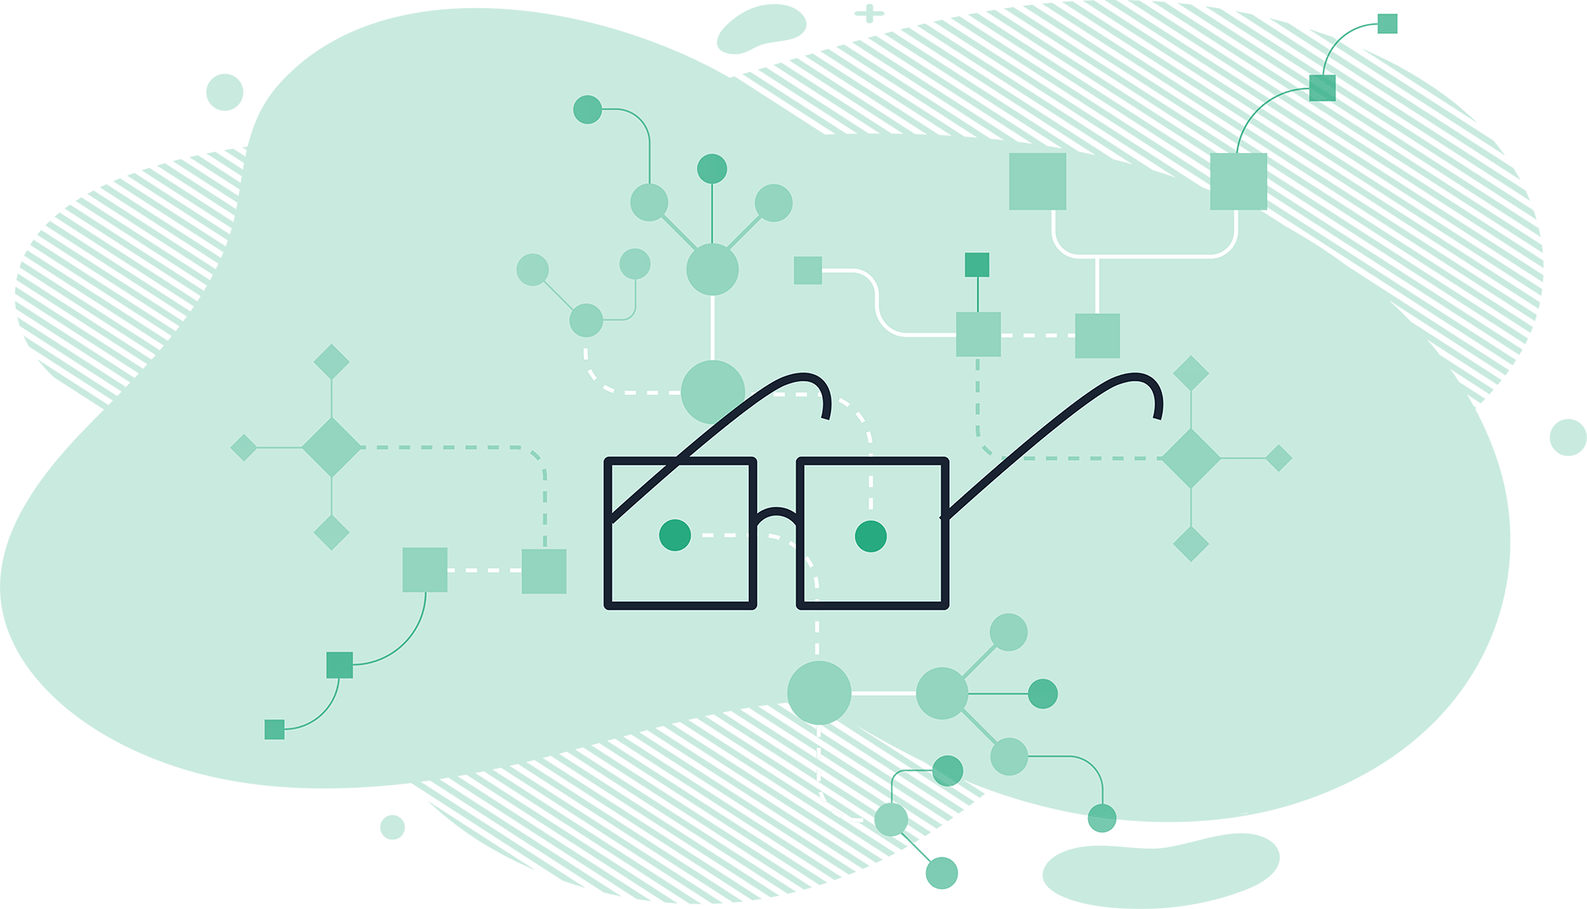
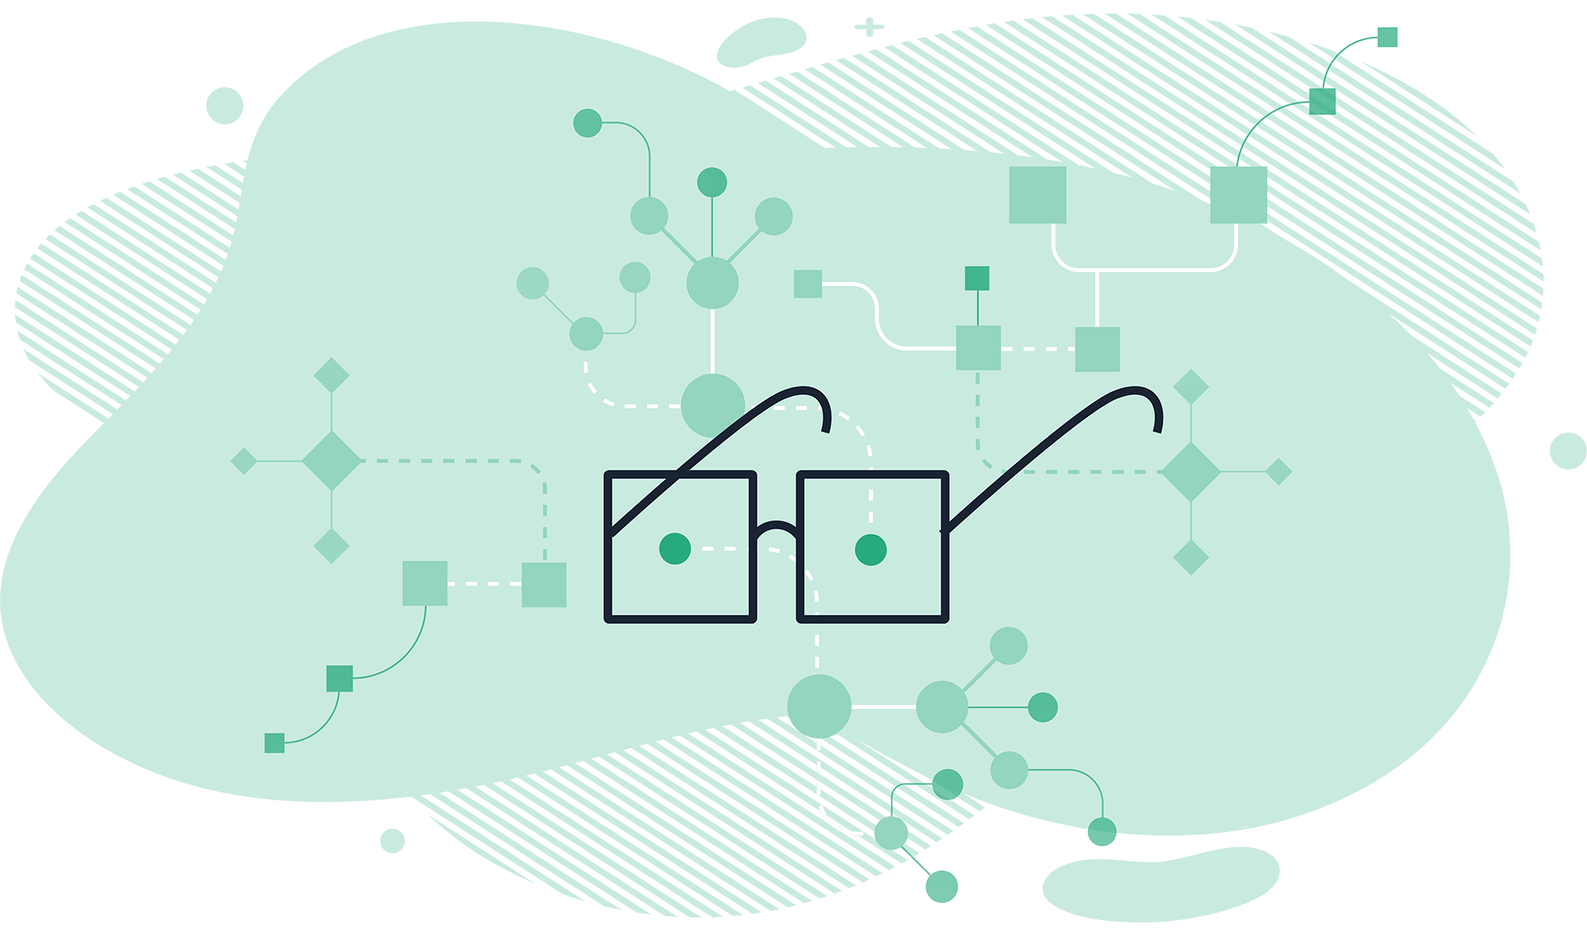
Normalized "blob image" ratios as best I could. Removed rampant bolding on /learn and added a section on Strategies. Updated the review page UI.

diff --git a/resources/views/learn.blade.php b/resources/views/learn.blade.php
@@ -58,6 +58,11 @@
         cursor: pointer;
     }
 
+    blockquote {
+        border-left: 4px solid var(--main);
+        padding-left: 15px;
+    }
+
 </style>
 @endsection
 
@@ -70,12 +75,15 @@
             <hr>
             <img style="width: 70%; display: block; margin: auto;" src="{{asset('/image/Brain.png')}}" />
 
-            <p class="mt-3"><b>Learning well</b> earns us the right to attend better classes, to get into better colleges, or even land better jobs.</p>
-            <p>Yet, the ability to learn effectively is often taken for granted and the <b>best techniques for studying</b>, that save us time and help us remember, are <b>seldom discussed</b>.</p>
-            <p>This guide will introduce you to a few of the most powerful and practical ways to <b>improve your studying</b> so that you can understand, remember, and achieve more.</p>
+            <p class="mt-3">Learning well earns us the right to attend better classes, to get into better colleges, or even land better jobs.</p>
+            <p>Yet, the ability to learn effectively is often taken for granted and the best techniques for studying, that save us time and help us remember, are seldom discussed.</p>
+            <p>This guide will introduce you to a few of the most powerful and practical ways to improve your studying so that you can understand, remember, and achieve more.</p>
             <div class="p-3 raised-box">
                 <h4><b>What will you learn?</b></h4>
                 <ul>
+                    <li>
+                        <b>Strategies</b><br><em>The forces behind the rampant use of ineffective learning methods.</em>
+                    </li>
                     <li>
                         <b>Self-Explanation</b><br><em>Talking to yourself might make you feel crazy, but it will definitely make you smarter.</em>
                     </li>
@@ -97,68 +105,104 @@
                 </ul>
             </div>
             <hr class="my-5">
-            <h3>Self-Explanation</h3>
-            <p>Self-explanation occurs when we <b>explain a text to ourselves as we read it</b> or recite the steps we are taking while solving a problem.</p>
-            <p>For example, you would be engaging in self-explanation if, at the end of each section of this guide, you stopped to ask yourself, "What did I just read?" and <b>summarized the content</b> in your own words.</p>
-            <p>This type of self-explanation has been <b>shown to lead to better solutions</b> while problem-solving as well as an <b>increased understanding of a text</b> when reading.</p>
-            <p>Self-explanations are even <b>more effective</b> when they go beyond the information presented in a text by <b>further elaborating or making inferences</b> about the material. </p>
-            <p>You might engage in this higher form of self-explanation while reading this guide by asking and inferring answers to questions like "How can I make use of this technique?" or "Why does this technique work so well?".<sup>[1]</sup></p>
+            <h2><b>Strategies</b></h2>
+            <p>
+                Most students are uninformed or misinformed about effective learning strategies. Schools rarely teach strategies, and students will not typically develop good strategies well on their own. 
+                As a result, many students develop false beliefs about their own study habits. 
+            </p>
+            <p>
+                Sometimes the use of ineffective strategies stems from false beliefs about the nature of knowledge. 
+                For instance, if you believe that knowledge is simply a collection of discrete facts, you don't have any reason to use a study strategy that organizes or relates the information you're learning.
+                Similarly, if you believe that knowledge will come quickly and easily as a result of merely consuming information, you won't adopt a strategy where you must practice recalling that information.
+            </p>
+            <p>
+                The use of ineffective strategies can also sometimes be attributed to false beliefs about what we know. 
+                Most students are not very mindful of their level of comprehension as they sit in class or read a book. 
+                Since they aren't monitoring their comprehension, they are especially apt to develop "illusions of knowing."
+            </p>
+            <p>Illusions of knowing are especially harmful since we're likely to stop studying at exactly the moment when we think we know the material. 
+                With an illusion of knowing, we'll stop studying prematurely &ndash; and we'll be more apt to be frustrated with the results of a test! 
+                Thus, it is important that the learning strategies we use help us monitor our comprehension well.<sup>[1]</sup></p>
+            <div class="raised-box p-3">
+                <h4 class="mb-3"><b>Learning Strategies...Is it really worth it?</b></h4>
+                <blockquote>
+                        <p><em>Students who believe that certain strategies involve too much time and effort are unlikely to use
+                        them, no matter how effective the strategies might be...In many cases, students seem to
+                        be unaware of how much a few simple strategies can help them learn and remember classroom
+                        material...</em><sup>[1]</sup></p>
+                        <small class="blockquote-footer">Jeanne Ormrod, Author of <em>Human Learning</em></small>
+                </blockquote>
+                <p>Effective learning strategies can sometimes feel counterintuitive. They may take some time and effort to get used to and to get really good at using them. 
+                    Yet, you're going to be learning your whole life &ndash; it's almost certainly going to be worth it to know how they work!</p>
+                <p>Some techniques are so simple that using them is almost as easy as <em>remembering</em> and <em>deciding</em> to use them. We discuss a few of these below.</p>
+            </div>
+
             <hr class="my-5">
-            <h3>Testing</h3>
+            <h3><b>Self-Explanation</b></h3>
+            <p>Self-explanation occurs when we explain a text to ourselves as we read it or recite the steps we are taking while solving a problem.</p>
+            <p>For example, you would be engaging in self-explanation if, at the end of each section of this guide, you stopped to ask yourself, "What did I just read?" and summarized the content in your own words.</p>
+            <p>This type of self-explanation has been shown to lead to better solutions while problem-solving as well as an increased understanding of a text when reading.</p>
+            <p>Self-explanations are even more effective when they go beyond the information presented in a text by further elaborating or making inferences about the material. </p>
+            <p>You might engage in this higher form of self-explanation while reading this guide by asking and inferring answers to questions like "How can I make use of this technique?" or "Why does this technique work so well?".<sup>[2]</sup></p>
+            <hr class="my-5">
+            <h3><b>Testing</b></h3>
             <p>People often think of tests and quizzes as mere assessments of learning and that the only good (or bad) that comes from taking them is knowledge of a grade.</p>
             <p>This isn't true!</p>
-            <p>When we take a test, we are forced to <b>retrieve information from memory</b> without the ability to use an external source of information like our notes. Thus, our <b>brains have to work a bit harder</b> to find the answers. This <b>extra effort strengthens the memory</b> so that the brain doesn't have to work as hard in the future.</p>
-            <p>We can make use of this testing effect in our study habits by taking practice tests, completing end-of-chapter questions, or by simply using flashcards.<sup>[2]</sup></p>
+            <p>When we take a test, we are forced to retrieve information from memory without the ability to use an external source of information like our notes. Thus, our brains have to work a bit harder to find the answers. This extra effort strengthens the memory so that the brain doesn't have to work as hard in the future.</p>
+            <p>We can make use of this testing effect in our study habits by taking practice tests, completing end-of-chapter questions, or by simply using flashcards.<sup>[3]</sup></p>
             <hr class="my-5">
-            <h3>Spacing</h3>
-            <p>Everyone knows that <b>learning things well takes time</b>. We usually need to <b>review information more than once</b> before we can recall it perfectly without using our notes.</p>
+            <h3><b>Spacing</b></h3>
+            <p>Everyone knows that learning things well takes time. We usually need to review information more than once before we can recall it perfectly without using our notes.</p>
             <p>One obvious way to improve memory, though not always feasible, would be to spend more time in review.</p>
-            <p>What is less obvious is that <b>the way we schedule</b> this review time is crucially important.</p>
+            <p>What is less obvious is that the way we schedule this review time is crucially important.</p>
             <p>Many students often choose to study one concept at a time by reciting or rereading the material in back-to-back repetitions until it feels familiar. This is an ineffective strategy for long-term memory.</p>
             <p>If we reread something immediately, our brains don't have to do any work with the information. It's all already there!</p>
-            <p>Instead, it is better to <b>spread out our exposure to the material</b> across more time. Then, when we return to the material, <b>our brains draw up the memories of the last time we saw it</b>, which strengthens them.</p>
-            <p>This <b>spacing effect</b> is amplified when combined with the <b>testing effect</b> discussed earlier. Instead of simply returning to reread the material after some time has passed, try quizzing yourself on it first.<sup>[3]</sup></p>
+            <p>Instead, it is better to spread out our exposure to the material across more time. Then, when we return to the material, our brains draw up the memories of the last time we saw it, which strengthens them.</p>
+            <p>This spacing effect is amplified when combined with the testing effect discussed earlier. Instead of simply returning to reread the material after some time has passed, try quizzing yourself on it first.<sup>[4]</sup></p>
             <div class="p-3 raised-box">
                 <h4><b>Remember This When Cramming</b></h4>
                 <p>It's an hour before the test. You don't feel like you've studied enough to fully grasp everything on the test, so you're frantically shuffling through your flashcards.</p>
                 <p>In the interest of time, you decide to drop a few of them that you think you know well. You also drop a few that you think are too difficult to learn in such a short timeframe. This way, you believe you can get the most out of your cramming.</p>
-                <p><b>Bad idea.</b></p>
-                <p>One study found that <b>we often make poor decisions</b> about which cards to drop. Keeping the cards we know in the rotation might even be beneficial as it <b>increases the spacing</b> between the cards we do not know. <sup>[4]</sup></p>
+                <p>Bad idea.</p>
+                <p>One study found that we often make poor decisions about which cards to drop. Keeping the cards we know in the rotation might even be beneficial as it increases the spacing between the cards we do not know. <sup>[5]</sup></p>
                 <p>Moral of the story: make a plan to space out your study time. </p>
             </div>
             <hr class="my-5">
-            <h3>Sleep</h3>
+            <h3><b>Sleep</b></h3>
             <p>Sleep is often viewed as a time where nothing happens. But, during sleep, our brains are hard at work.</p>
-            <p>While we sleep, our brains replay the events of the day and <b>consolidate information</b> into long-term memory. Sleeping has been <b>shown to increase memory recall</b>.<sup>[5]</sup></p>
+            <p>While we sleep, our brains replay the events of the day and consolidate information into long-term memory. Sleeping has been shown to increase memory recall.<sup>[6]</sup></p>
             <p>When we don't get enough sleep, we hinder this consolidation process.</p>
-            <p>Furthermore, <b>our brains are constantly creating and integrating new neurons</b>. A prolonged lack of either sleep or new learning experiences greatly reduces how many of these new neurons can survive.<sup>[6]</sup></p>
-            <p><b>Don't starve your baby neurons</b>.</p>
-            <p>If you want a healthy, thriving brain, <b>seek out new learning experiences every day</b> for your brain to replay while you sleep and make sure to <b>go to bed on time</b>.</p>
+            <p>Furthermore, our brains are constantly creating and integrating new neurons. A prolonged lack of either sleep or new learning experiences greatly reduces how many of these new neurons can survive.<sup>[7]</sup></p>
+            <p>Don't starve your baby neurons.</p>
+            <p>If you want a healthy, thriving brain, seek out new learning experiences every day for your brain to replay while you sleep and make sure to go to bed on time.</p>
             <hr class="my-5">
-            <h3>Structure</h3>
-            <p>New material is <b>easier to remember</b> when the various information is all interconnected. In other words, when the <b>material is well-organized</b>.</p>
+            <h3><b>Structure</b></h3>
+            <p>New material is easier to remember when the various information is all interconnected. In other words, when the material is well-organized.</p>
             <p>In one study, students were given 112 words to remember. Some of the students were given the words in random order, while others were given the words organized by category.</p>
-            <p>After just one study session, the <b>students given the organized words remembered <em>3.54 times</em></b> the number of words remembered by students given the random order!</p>
-            <p>Furthermore, students given the organized words had <b>perfect recall of all 112 words by a 3rd study session</b> compared to a measly 52.8 average words recalled by the students given the randomized words.<sup>[7]</sup></p>
+            <p>After just one study session, the students given the organized words remembered <em>3.54 times</em> the number of words remembered by students given the random order!</p>
+            <p>Furthermore, students given the organized words had perfect recall of all 112 words by a 3rd study session compared to a measly 52.8 average words recalled by the students given the randomized words.<sup>[8]</sup></p>
             <img class="shadow" src="{{ asset('/image/Organized_Vs_Random.png')}}" style="max-width: 100%;width: 500px;margin: 30px auto;display: block;" />
-            <p>Information is not always delivered to us in the most organized manner. However, <b>the best students spontaneously organize information</b> as they get it by <b>connecting the new information to other information</b> they are learning or already know.</p>
-            <p>Think of forming connections between ideas as <b>creating mental pathways</b> &ndash; the more connected an idea is to other information you know, the more likely you'll be able to find a pathway to reach it during a test.<sup>[8]</sup></p>
+            <p>Information is not always delivered to us in the most organized manner. However, the best students spontaneously organize information as they get it by connecting the new information to other information they are learning or already know.</p>
+            <p>Think of forming connections between ideas as creating mental pathways &ndash; the more connected an idea is to other information you know, the more likely you'll be able to find a pathway to reach it during a test.<sup>[9]</sup></p>
             <p>Connections can be made in all sorts of ways, such as by making categories, timelines, flow charts, or using Connected Flashcards.</p>
             <hr class="my-5">
-            <h3>Mindset</h3>
-            <p><b>What you believe about your abilities</b> and the nature of intelligence <b>can have a drastic impact on your performance</b> in school and other learning activities.</p>
+            <h3><b>Mindset</b></h3>
+            <p>What you believe about your abilities and the nature of intelligence can have a drastic impact on your performance in school and other learning activities.</p>
             <p>If you believe, for example, that you aren't a "math person" and that intellectual ability is mostly innate, then you have fallen victim to a fixed mindset.</p>
             <p>Individuals with a fixed mindset blame mistakes on a lack of ability and frequently avoid challenges, preferring easy tasks with which they know they can succeed.</p>
-            <p>In contrast, a <b>growth mindset</b> occurs when you believe that your <b>abilities and intelligence can be cultivated and grown</b>.</p>
-            <p>Individuals with a growth mindset <b>seek out more challenges</b> and <b>see mistakes as opportunities for learning</b> and growth. They will <b>try new strategies</b> when they fail or <b>seek help from others</b>.</p>
-            <p>When individuals develop a growth mindset, they <b>achieve more and even express more enjoyment</b> of courses.<sup>[9]</sup></p>
-            <p>So, <b>when you encounter difficulty</b> in your studies, <b>remember that it isn't because you are incapable</b> of understanding the material. Rather, it is just that you aren't there <b>yet</b>.</p>
+            <p>In contrast, a growth mindset occurs when you believe that your abilities and intelligence can be cultivated and grown.</p>
+            <p>Individuals with a growth mindset seek out more challenges and see mistakes as opportunities for learning and growth. They will try new strategies when they fail or seek help from others.</p>
+            <p>When individuals develop a growth mindset, they achieve more and even express more enjoyment of courses.<sup>[10]</sup></p>
+            <p>So, when you encounter difficulty in your studies, remember that it isn't because you are incapable of understanding the material. Rather, it is just that you aren't there yet.</p>
             <hr class="my-5">
-            <h2>You Are What You Remember</h2>
-            <p>Our lives are greatly influenced by what we choose to learn and remember. Whatever your passions and goals for life and learning, <b>use these techniques</b> to achieve more of it.</p>
+            <h2><b>You Are What You Remember</b></h2>
+            <p>Our lives are greatly influenced by what we choose to learn and remember. Whatever your passions and goals for life and learning, use these techniques to achieve more of it.</p>
             <div class="p-3 raised-box mt-5">
                 <h4><b>Summary</b></h4>
                 <ul>
+                    <li>
+                        <b>Strategies</b><br><em>Make yourself more aware of how you are studying and take the time to learn good methods.</em>
+                    </li>
                     <li>
                         <b>Self-Explanation</b><br><em>Explain to yourself what you are reading or recite the steps you take as you solve a problem.</em>
                     </li>
@@ -182,6 +226,9 @@
             <div class="green my-2 view-sources d-inline-block">View Sources</div>
             <div class="sources">
                 <ol>
+                    <li>
+                        Ormrod, Jeanne. Human Learning. 6th ed., Pearson Education, Inc, 2012. 
+                    </li>
                     <li>
                         deLeeuw, N., &amp; Chi, M. T. H. (2003). Self-explanation: Enriching a situation model or repairing a domain model? In G. M. Sinatra &amp; P. R. Pintrich (Eds.), <em>Intentional conceptual change</em> (pp. 55–78). Mahwah, NJ: Lawrence Erlbaum Associates, Inc
                     </li>

diff --git a/resources/views/review/review.blade.php b/resources/views/review/review.blade.php
@@ -5,16 +5,17 @@
 @section('content')
 <div class="container">
     <div class="row justify-content-center">
-        <div class="col-lg-8">
+        <div class="col-lg-10">
             <a class="text-decoration-none mb-3 d-inline-block" href="{{route('user_sets')}}"><i class="fas fa-arrow-left"></i> Back to My Sets</a>
             <h1 class="m-0 mb-2 break-word">Review: {{ $set->title }}</h1>
             <div class="mt-4"></div>
             @if ($set->cards->count() > 0)
                 <div class="row">
                     <div class="col-lg-6 mb-3">
-                        <div class="review-option shadow-sm h-100 text-center">
+                        <div class="raised-box p-3 h-100 text-center">
                             <h3>Memory Maintenance</h3>
-                            <p class="text-muted">Keep up-to-date and let the system optimize your review for the long-term.</p>
+                            <img class="m-auto d-block" style="width:65%;" src="{{asset('/image/MaintainStrongMemories.png')}}" />
+                            <p class="text-muted mt-2">Keep up-to-date and let the system optimize your review for the long-term.</p>
                             @if ($due == 0)
                                 <p class=""><i class="fas fa-check green"></i> You are up to date!</p>
                             @else
@@ -23,23 +24,24 @@
                         </div>
                     </div>
                     <div class="col-lg-6 mb-3">
-                        <div class="review-option shadow-sm h-100 text-center">
+                        <div class="raised-box p-3 h-100 text-center">
                             <h3>Assessment</h3>
+                            <img class="m-auto d-block" style="width:65%;" src="{{asset('/image/ConcentrateYourEffort.png')}}" />
                             @if (!Auth::user()->onTrialOrSubscribed())
                             <div class="alert alert-info">
                                 Your subscription has run out. <a href="{{route('subscribe')}}">Subscribe</a> to start new assessments.
                             </div>
                             @else
                                 @if ($unfinishedAssessment != null)
-                                <p class="text-muted">You have an unfinished assessment. Would you like to continue where you left off, or start over?</p>
+                                <p class="text-muted mt-2">You have an unfinished assessment. Would you like to continue where you left off, or start over?</p>
                                 @else
-                                <p class="text-muted">Discover where your weaknesses are and make more effective use of your study time.</p>
+                                <p class="text-muted mt-2">Discover where your short-term weaknesses are and make more effective use of your study time.</p>
                                 @endif
                                 
                                 <div class="">
                                     @if ($unfinishedAssessment != null)
-                                        <a href="{{route('new_assessment', $set)}}" class="btn btn-secondary"><i class="fas fa-plus"></i> New</a>
-                                        <a href="{{ route('assessment_card', ['set'=> $set, 'assessment' => $unfinishedAssessment]) }}" class="btn btn-primary"><i class="fas fa-angle-double-right"></i> Continue</a>
+                                        <a href="{{route('new_assessment', $set)}}" class="btn btn-secondary mr-3">Start Over</a>
+                                        <a href="{{ route('assessment_card', ['set'=> $set, 'assessment' => $unfinishedAssessment]) }}" class="btn btn-primary ">Continue</a>
                                     @else
                                         <a href="{{route('new_assessment', $set)}}" class="btn btn-primary"><i class="fas fa-plus"></i> New</a>
                                     @endif
@@ -49,8 +51,8 @@
                     </div>
                 </div>
                 <div class="mt-4"></div>
-                <h2>Completed Assessments</h2>
                 @if ($assessments->count() > 0)
+                <h2>Completed Assessments</h2>
                 <div class="table-responsive shadow-sm">
                     <table class="table table-striped past-assessments mb-0">
                         <thead>
@@ -88,8 +90,6 @@
                         </tbody>
                     </table>
                 </div>
-                @else
-                    <p class="text-center">Complete an assessment to view past results.</p>
                 @endif
             @else 
             <div class="text-center raised-box p-3" style="">
